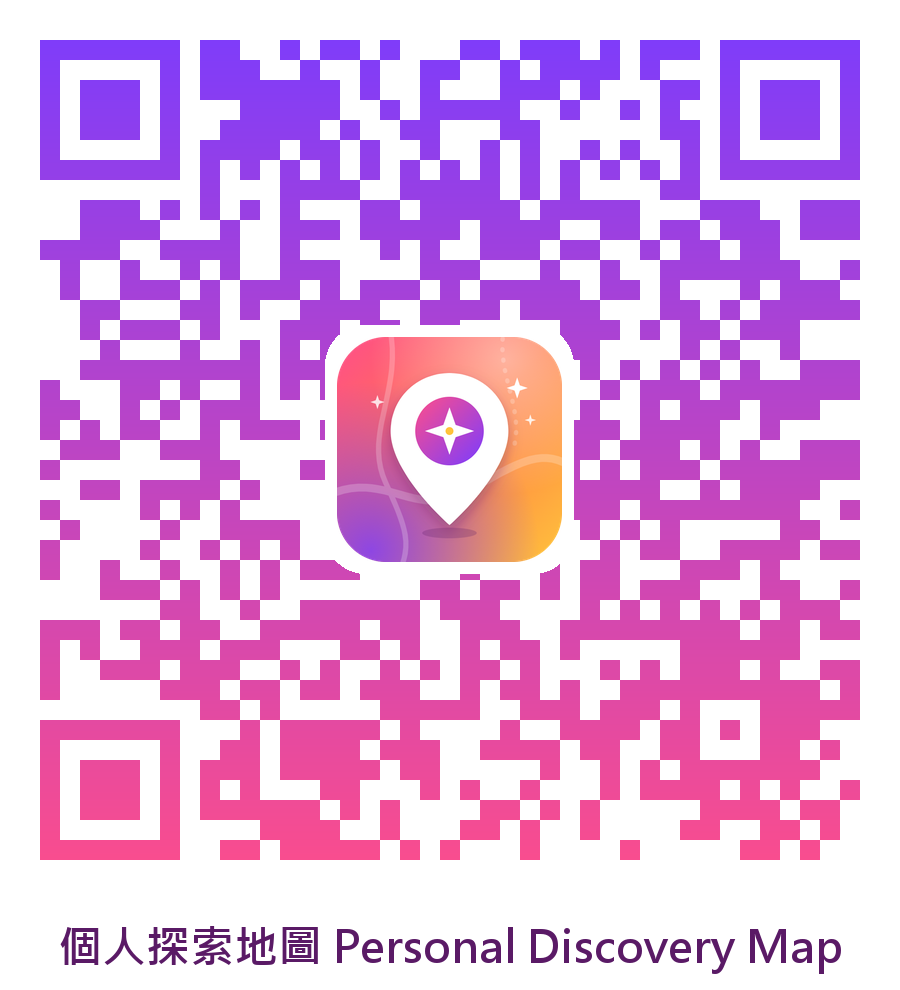
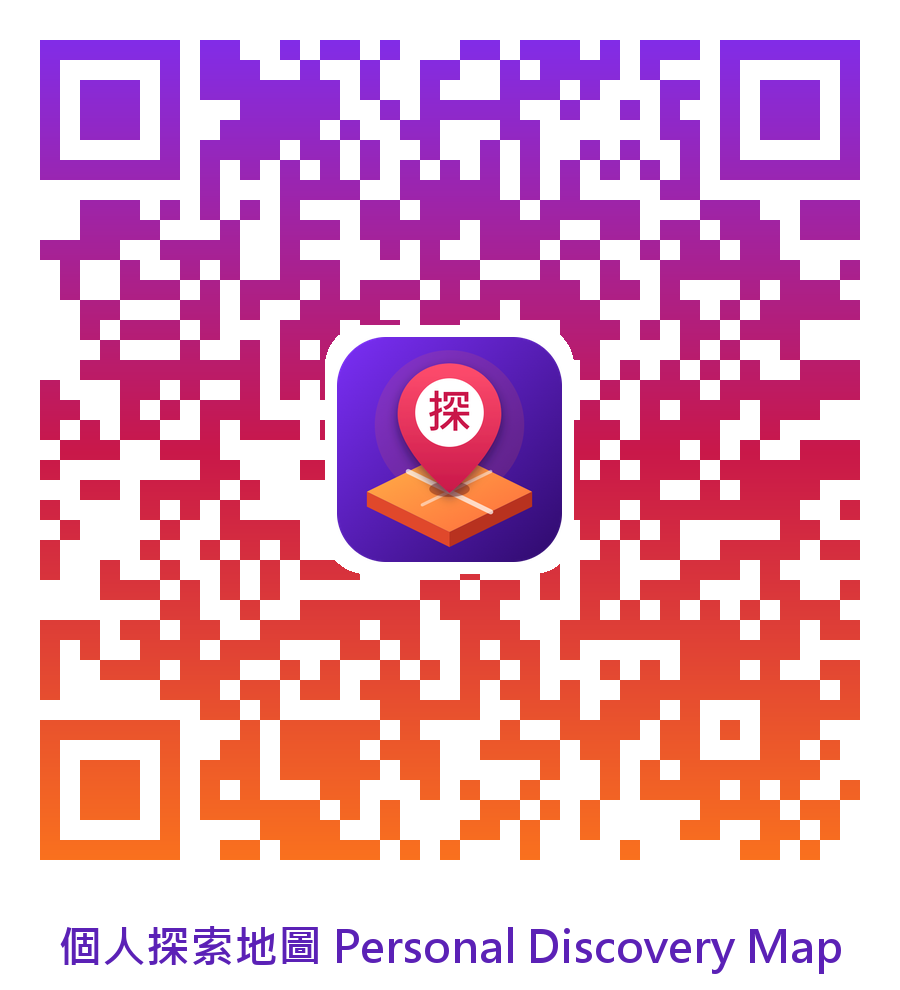
新 App 圖示（紫底立體地圖＋「探」字地點針）、修正章節時間軸店名
- 圖示改用使用者選定的 JK2，更新 PWA / iOS 圖示與 QR Code
- 「00:56 店名」章節格式不再被誤判為營業時間（痛風老饕大量店家恢復）
- 沒有門牌的地址、「名單」「取貨」等不再當作店名

diff --git a/index.html b/index.html
@@ -3,7 +3,7 @@
   <head>
     <meta charset="UTF-8" />
     <meta name="viewport" content="width=device-width, initial-scale=1.0, viewport-fit=cover" />
-    <meta name="theme-color" content="#ff5f6d" />
+    <meta name="theme-color" content="#7b2ff7" />
     <meta name="apple-mobile-web-app-capable" content="yes" />
     <meta name="apple-mobile-web-app-title" content="探索地圖" />
     <link rel="manifest" href="./manifest.webmanifest" />

diff --git a/pipeline/extract.py b/pipeline/extract.py
@@ -16,11 +16,13 @@ ADDR_RE = re.compile(
 NAME_LABEL_RE = re.compile(r"(?:店名|店家|餐廳|名稱|店舖|店鋪|Restaurant)\s*[:：]\s*(.+)")
 ADDR_LABEL_RE = re.compile(r"^\s*(?:地址|住址|位置|Address|📍)\s*[:：]?\s*", re.I)
 NOISE_RE = re.compile(r"[\U0001F000-\U0001FFFF☀-➿#＃|｜]+")
-SKIP_NAME_RE = re.compile(r"(地址|住址|位置|電話|專線|營業|時間|公休|價位|價格|日期|期間|參考|http|訂位|菜單|停車|交通|捷運|instagram|facebook|\bIG\b|\bFB\b)", re.I)
+SKIP_NAME_RE = re.compile(r"(地址|住址|位置|電話|專線|營業|時間|公休|價位|價格|日期|期間|參考|名單|取貨|宅配|http|訂位|菜單|停車|交通|捷運|instagram|facebook|\bIG\b|\bFB\b)", re.I)
 # 「(挫冰|冰|季節性)」這類分類標籤：括號內含 | 或 、
 TAG_GROUP_RE = re.compile(r"\([^()]*[|、/][^()]*\)")
 # 營業時間行：🈺（NFKC 後為「営」）、「營業」開頭，或含 11:00、「1 1 : 0 0」這類時間
 HOURS_RE = re.compile(r"^\s*[営營]|\d\s*[:：]\s*\d\s*\d")
+# 「新北市三重區中央北路」這種沒寫門牌的地址，不能當店名
+ADMIN_PREFIX_RE = re.compile(r"^(?:[台臺][北中南東]|新北|桃園|高雄|基隆|新竹|苗栗|彰化|南投|雲林|嘉義|屏東|宜蘭|花蓮|澎湖|金門|連江)[市縣]?[一-鿿]{1,4}?[區鄉鎮市]")
 
 
 def normalize(s: str) -> str:
@@ -65,12 +67,14 @@ def guess_name(lines: list[str], idx: int) -> str | None:
                 return cand
     for j in range(idx - 1, max(-1, idx - 5), -1):
         raw = lines[j].strip()
+        # YouTube 章節時間軸「00:56 板橋小籠包」：去掉時間碼，剩下的是店名
+        raw = re.sub(r"^\d{1,2}:\d{2}(?::\d{2})?\s+(?=\D)", "", raw)
         if HOURS_RE.search(raw):  # 營業時間行，略過往上找
             continue
         if re.fullmatch(r"\(.*\)", raw):  # 整行都是括號說明，略過往上找
             continue
         cand = clean_name(raw)
-        if not cand or SKIP_NAME_RE.search(cand) or ADDR_RE.search(cand):
+        if not cand or SKIP_NAME_RE.search(cand) or ADDR_RE.search(cand) or ADMIN_PREFIX_RE.match(cand):
             continue
         if 2 <= len(cand) <= 30:
             return cand

diff --git a/pipeline/test_extract.py b/pipeline/test_extract.py
@@ -52,6 +52,17 @@ class T(unittest.TestCase):
         )
         self.assertEqual([x["name"] for x in extract_places(gout)], ["新東街米粉湯", "屏東任家涼麵"])
 
+    def test_chapter_timestamps(self):
+        t = (
+            "本集美味店家_\n00:00 開場\n00:56 板橋小籠包\n1 6 : 0 0 - 0 1 : 0 0\n新北市板橋區南雅南路一段79號\n\n"
+            "03:03 板橋王記好吃麻油雞\n17:00-22:00（週一公休）\n新北市板橋區南雅東路8號（勝利百貨前"
+        )
+        self.assertEqual([x["name"] for x in extract_places(t)], ["板橋小籠包", "板橋王記好吃麻油雞"])
+
+    def test_address_not_name(self):
+        r = extract_places("新北市三重區中央北路\n新北市三重區中央北路65號")
+        self.assertIsNone(r[0]["name"])
+
     def test_admin(self):
         self.assertEqual(split_admin("台北市大安區仁愛路"), ("台北市", "大安區"))
         self.assertEqual(split_admin("宜蘭縣羅東鎮中正路1號"), ("宜蘭縣", "羅東鎮"))
